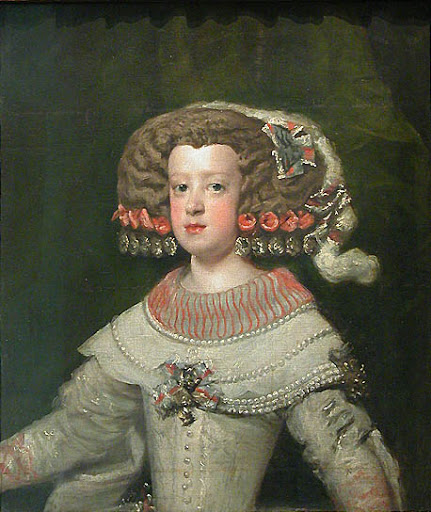
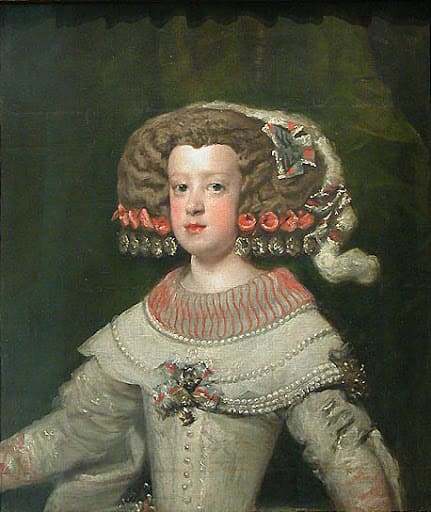
Compression of imgs and parallax effect in hero.

diff --git a/src/components/Hero.js b/src/components/Hero.js
@@ -1,12 +1,25 @@
-import React from "react";
+import React, { useEffect, useRef } from "react";
 import { Link } from "react-router-dom";
+import Rellax from "rellax";
 import venus from "../img/Venus.png";
 import { MdNorthEast } from "react-icons/md";
 
 const Hero = () => {
+  const heroTextRef = useRef();
+  const figureRef = useRef();
+
+  useEffect(() => {
+    new Rellax(heroTextRef.current, {
+      speed: -5, // Velocidad para el div
+    });
+    new Rellax(figureRef.current, {
+      speed: 8, // Velocidad para el figure
+    });
+  }, []);
+
   return (
     <section className="Hero">
-      <div className="hero-text">
+      <div className="hero-text" ref={heroTextRef}>
         <h1>
           Welcome to the <strong>Louvre</strong>
         </h1>
@@ -16,7 +29,7 @@ const Hero = () => {
           </button>
         </Link>
       </div>
-      <figure>
+      <figure ref={figureRef}>
         <img src={venus} alt="Venus de Milo sculpture" />
       </figure>
     </section>

diff --git a/src/data/ExhibitionsData.js b/src/data/ExhibitionsData.js
@@ -3,7 +3,7 @@ import torloniaCollection from "../img/torlonia-collection.jpg";
 import Velazquez from "../img/VelazquezMariaTeresa.jpg";
 import Degas from "../img/DegasMaryCassatt.jpg";
 import Michaelangelo from "../img/img8.jpg";
-import Cariatides from "../img/Cariatides.jpg";
+import Cariatides from "../img/Cariatides.webp";
 
 const exhibitions = [
   {
